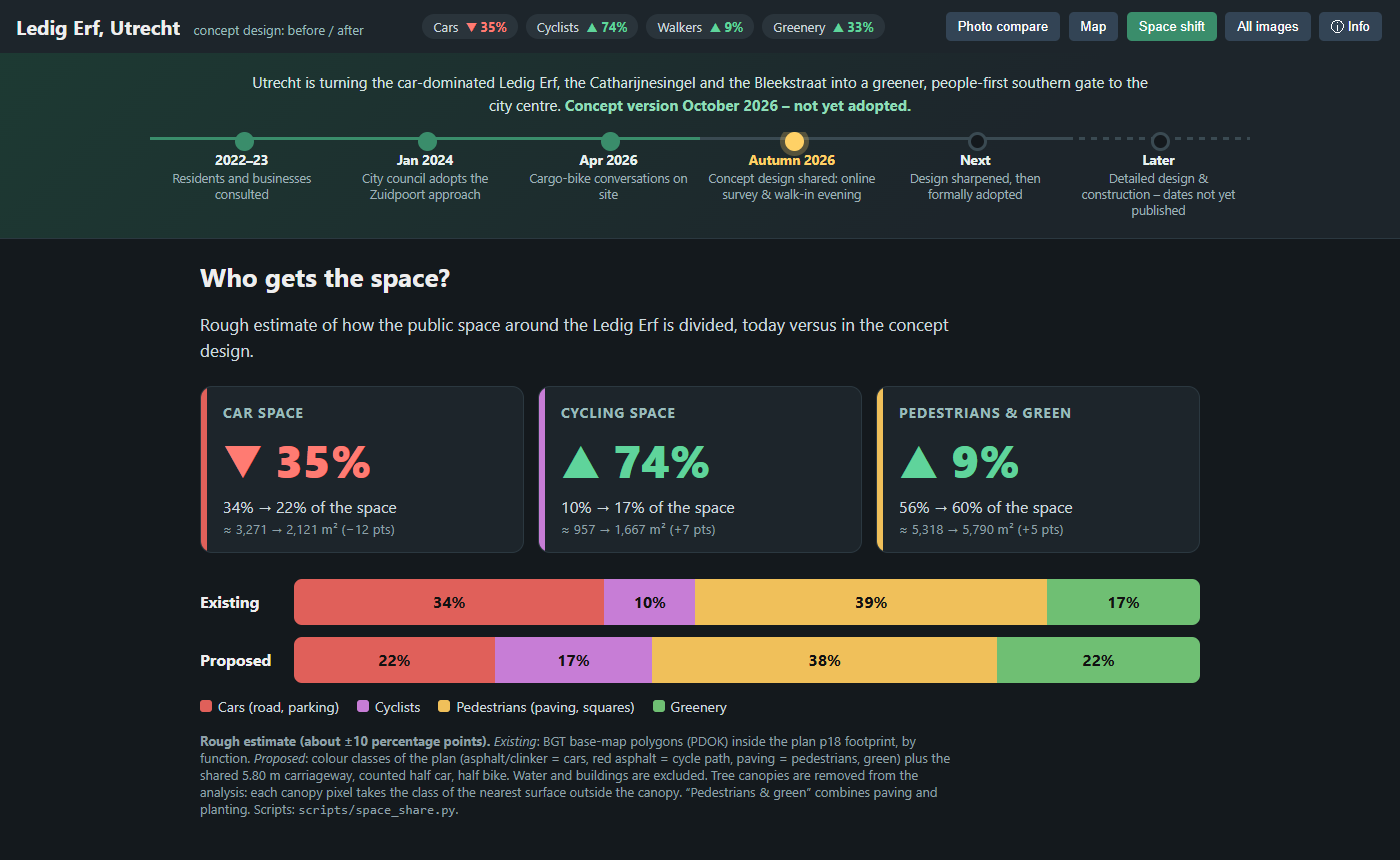
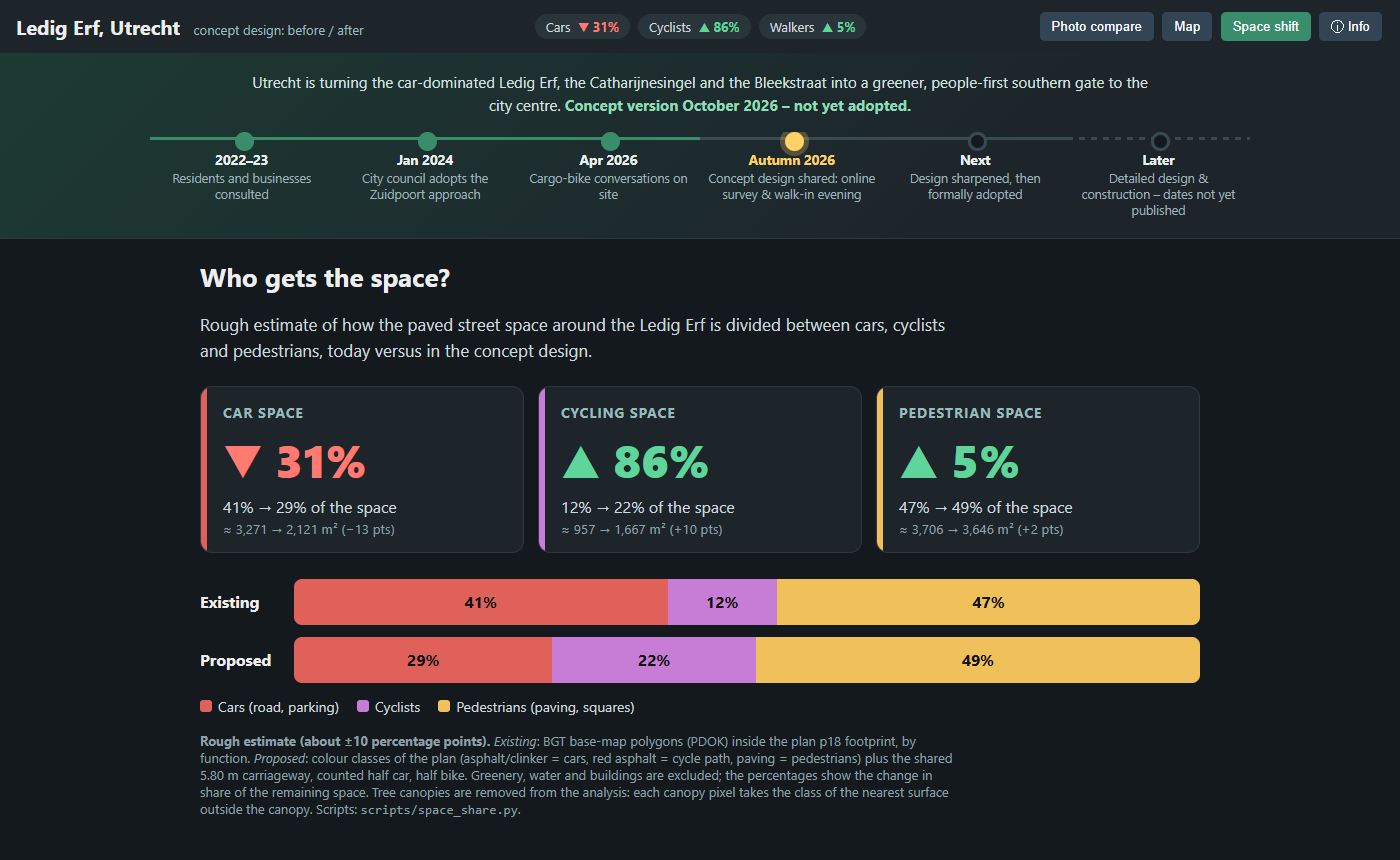
Exclude greenery from space comparison

diff --git a/docs/space.js b/docs/space.js
@@ -1,30 +1,25 @@
 fetch('images/space.json').then(r => r.json()).then(d => {
-  const sum = o => Object.values(o).reduce((a, b) => a + b, 0);
-  const tb = sum(d.before_m2), ta = sum(d.after_m2);
-  const people = o => o.walk + o.green;
+  const modes = ['car', 'bike', 'walk'];
+  const tb = modes.reduce((s, k) => s + d.before_m2[k], 0), ta = modes.reduce((s, k) => s + d.after_m2[k], 0);
   const kpi = [
-    { key: 'car', label: 'Car space', b: d.before_m2.car, a: d.after_m2.car, cls: 'c-car', arrow: '▼' },
-    { key: 'bike', label: 'Cycling space', b: d.before_m2.bike, a: d.after_m2.bike, cls: 'c-bike', arrow: '▲' },
-    { key: 'walk', label: 'Pedestrians & green', b: people(d.before_m2), a: people(d.after_m2), cls: 'c-walk', arrow: '▲' },
-  ];
+    { key: 'car', label: 'Car space', cls: 'c-car' },
+    { key: 'bike', label: 'Cycling space', cls: 'c-bike' },
+    { key: 'walk', label: 'Pedestrian space', cls: 'c-walk' },
+  ].map(k => ({ ...k, b: d.before_m2[k.key] / tb * 100, a: d.after_m2[k.key] / ta * 100, bm: d.before_m2[k.key], am: d.after_m2[k.key] }));
+  const rel = k => Math.round((k.a - k.b) / k.b * 100);
   const hs = document.getElementById('hsum');
-  hs.innerHTML = [['Cars', kpi[0]], ['Cyclists', kpi[1]], ['Walkers', kpi[2]], ['Greenery', { a: d.after_m2.green, b: d.before_m2.green }]].map(([n, k]) => {
-    const rel = Math.round((k.a - k.b) / k.b * 100);
-    return `<span class="${rel >= 0 ? 'up' : 'down'}">${n} <b>${rel >= 0 ? '▲' : '▼'} ${Math.abs(rel)}%</b></span>`;
-  }).join('');
-
+  hs.innerHTML = [['Cars', kpi[0]], ['Cyclists', kpi[1]], ['Walkers', kpi[2]]].map(([n, k]) =>
+    `<span class="${rel(k) >= 0 ? 'up' : 'down'}">${n} <b>${rel(k) >= 0 ? '▲' : '▼'} ${Math.abs(rel(k))}%</b></span>`).join('');
 
   document.getElementById('kpis').innerHTML = kpi.map(k => {
-    const rel = Math.round((k.a - k.b) / k.b * 100);
-    const pts = (k.a / ta - k.b / tb) * 100;
-    const up = rel >= 0;
+    const up = rel(k) >= 0, pts = k.a - k.b;
     return `<div class="kpi ${up ? 'up' : 'down'}"><i class="${k.cls}"></i><h3>${k.label}</h3>
-      <div class="big">${up ? '▲' : '▼'} ${Math.abs(rel)}%</div>
-      <p>${Math.round(k.b / tb * 100)}% → ${Math.round(k.a / ta * 100)}% of the space<br>
-      <small>≈ ${Math.round(k.b).toLocaleString('en')} → ${Math.round(k.a).toLocaleString('en')} m² (${up ? '+' : '−'}${Math.abs(pts).toFixed(0)} pts)</small></p></div>`;
+      <div class="big">${up ? '▲' : '▼'} ${Math.abs(rel(k))}%</div>
+      <p>${Math.round(k.b)}% → ${Math.round(k.a)}% of the space<br>
+      <small>≈ ${Math.round(k.bm).toLocaleString('en')} → ${Math.round(k.am).toLocaleString('en')} m² (${up ? '+' : '−'}${Math.abs(pts).toFixed(0)} pts)</small></p></div>`;
   }).join('');
 
-  const seg = (o, t) => ['car', 'bike', 'walk', 'green'].map(k =>
+  const seg = (o, t) => modes.map(k =>
     `<div class="c-${k}" style="width:${o[k] / t * 100}%" title="${k}: ${(o[k] / t * 100).toFixed(0)}%"><span>${(o[k] / t * 100).toFixed(0)}%</span></div>`).join('');
   document.getElementById('bars').innerHTML =
     `<div class="barrow"><b>Existing</b><div class="bar">${seg(d.before_m2, tb)}</div></div>

diff --git a/docs/index.html b/docs/index.html
@@ -5,7 +5,7 @@
   <meta name="viewport" content="width=device-width, initial-scale=1">
   <title>Ledig Erf, Utrecht – before / after</title>
   <link rel="stylesheet" href="https://unpkg.com/maplibre-gl@5.6.0/dist/maplibre-gl.css">
-  <link rel="stylesheet" href="style.css?v=4">
+  <link rel="stylesheet" href="style.css?v=5">
 </head>
 <body>
   <header>
@@ -55,16 +55,15 @@
   <main id="space" class="tab">
     <section class="panel">
       <h2>Who gets the space?</h2>
-      <p class="lead">Rough estimate of how the public space around the Ledig Erf is divided, today versus in the concept design.</p>
+      <p class="lead">Rough estimate of how the paved street space around the Ledig Erf is divided between cars, cyclists and pedestrians, today versus in the concept design.</p>
       <div id="kpis" class="kpis"></div>
       <div id="bars" class="bars"></div>
       <div class="legend">
         <span><i class="c-car"></i>Cars (road, parking)</span>
         <span><i class="c-bike"></i>Cyclists</span>
         <span><i class="c-walk"></i>Pedestrians (paving, squares)</span>
-        <span><i class="c-green"></i>Greenery</span>
       </div>
-      <p class="small"><b>Rough estimate (about ±10 percentage points).</b> <i>Existing</i>: BGT base-map polygons (PDOK) inside the plan p18 footprint, by function. <i>Proposed</i>: colour classes of the plan (asphalt/clinker = cars, red asphalt = cycle path, paving = pedestrians, green) plus the shared 5.80 m carriageway, counted half car, half bike. Water and buildings are excluded. Tree canopies are removed from the analysis: each canopy pixel takes the class of the nearest surface outside the canopy. “Pedestrians &amp; green” combines paving and planting. Scripts: <code>scripts/space_share.py</code>.</p>
+      <p class="small"><b>Rough estimate (about ±10 percentage points).</b> <i>Existing</i>: BGT base-map polygons (PDOK) inside the plan p18 footprint, by function. <i>Proposed</i>: colour classes of the plan (asphalt/clinker = cars, red asphalt = cycle path, paving = pedestrians) plus the shared 5.80 m carriageway, counted half car, half bike. Greenery, water and buildings are excluded; the percentages show the change in share of the remaining space. Tree canopies are removed from the analysis: each canopy pixel takes the class of the nearest surface outside the canopy. Scripts: <code>scripts/space_share.py</code>.</p>
     </section>
   </main>
 
@@ -91,8 +90,8 @@
 
 
   <script src="https://unpkg.com/maplibre-gl@5.6.0/dist/maplibre-gl.js"></script>
-  <script src="app.js?v=4"></script>
-  <script src="map.js?v=4"></script>
-  <script src="space.js?v=4"></script>
+  <script src="app.js?v=5"></script>
+  <script src="map.js?v=5"></script>
+  <script src="space.js?v=5"></script>
 </body>
 </html>

diff --git a/README.md b/README.md
@@ -28,7 +28,7 @@ uv run python scripts/make_gallery.py      # web JPEGs + docs/images/gallery.jso
 - **Photo compare** (default) – existing and proposed photos side by side for each pair.
 - **Map** – MapLibre map (OpenFreeMap base) with the georeferenced site plans of Ledig Erf (p18) and Catharijnesingel (p30) as overlays; toggle and opacity controls.
 - **Permanent links** – every tab has its own URL: [`#compare`](https://bertt.github.io/ledigerf/#compare), [`#map`](https://bertt.github.io/ledigerf/#map), [`#space`](https://bertt.github.io/ledigerf/#space), [`#info`](https://bertt.github.io/ledigerf/#info). The address bar updates when switching tabs, and back/forward works.
-- **Space shift** – rough estimate of the share of space for cars, cyclists, pedestrians and greenery, existing vs. proposed.
+- **Space shift** – rough estimate of the share of street space for cars, cyclists and pedestrians, existing vs. proposed.
 - **Info** – short English summary of what is planned at Ledig Erf, with a link to the project page.
 
 ```powershell
@@ -55,7 +55,7 @@ uv run python -m http.server 8000 -d docs     # http://localhost:8000
 uv run python scripts/space_share.py work/pdf/images/p18_0.png work/geo_p18.json   # writes docs/images/space.json
 ```
 
-A rough estimate (about ±10 percentage points) of how public space is divided between cars, cyclists, pedestrians and greenery around the Ledig Erf. *Existing* comes from BGT polygons (PDOK) by function inside the p18 footprint; *proposed* from colour classes of plan p18 (legend) plus the 5.80 m shared carriageway traced on the plan and counted half car, half bike. Water and buildings are excluded. Tree canopies are removed: each canopy pixel takes the class of the nearest surface outside the canopy. Result: car space ≈ −35 % (34 % → 22 % of the space), cycling space ≈ +74 % (10 % → 17 %), pedestrians and green together ≈ +9 % (56 % → 60 %; paving alone is about unchanged), greenery ≈ +33 % (17 % → 22 %).
+A rough estimate (about ±10 percentage points) of how paved street space is divided between cars, cyclists and pedestrians around the Ledig Erf. *Existing* comes from BGT polygons (PDOK) by function inside the p18 footprint; *proposed* from colour classes of plan p18 (legend) plus the 5.80 m shared carriageway traced on the plan and counted half car, half bike. Greenery, water and buildings are excluded, and tree canopies are removed (each canopy pixel takes the class of the nearest surface outside the canopy). Shares of the remaining space: cars 41 % → 29 % (≈ −31 %), cyclists 12 % → 22 % (≈ +86 %), pedestrians 47 % → 49 % (≈ +5 %).
 
 ## Georeferencing the site plans
 
